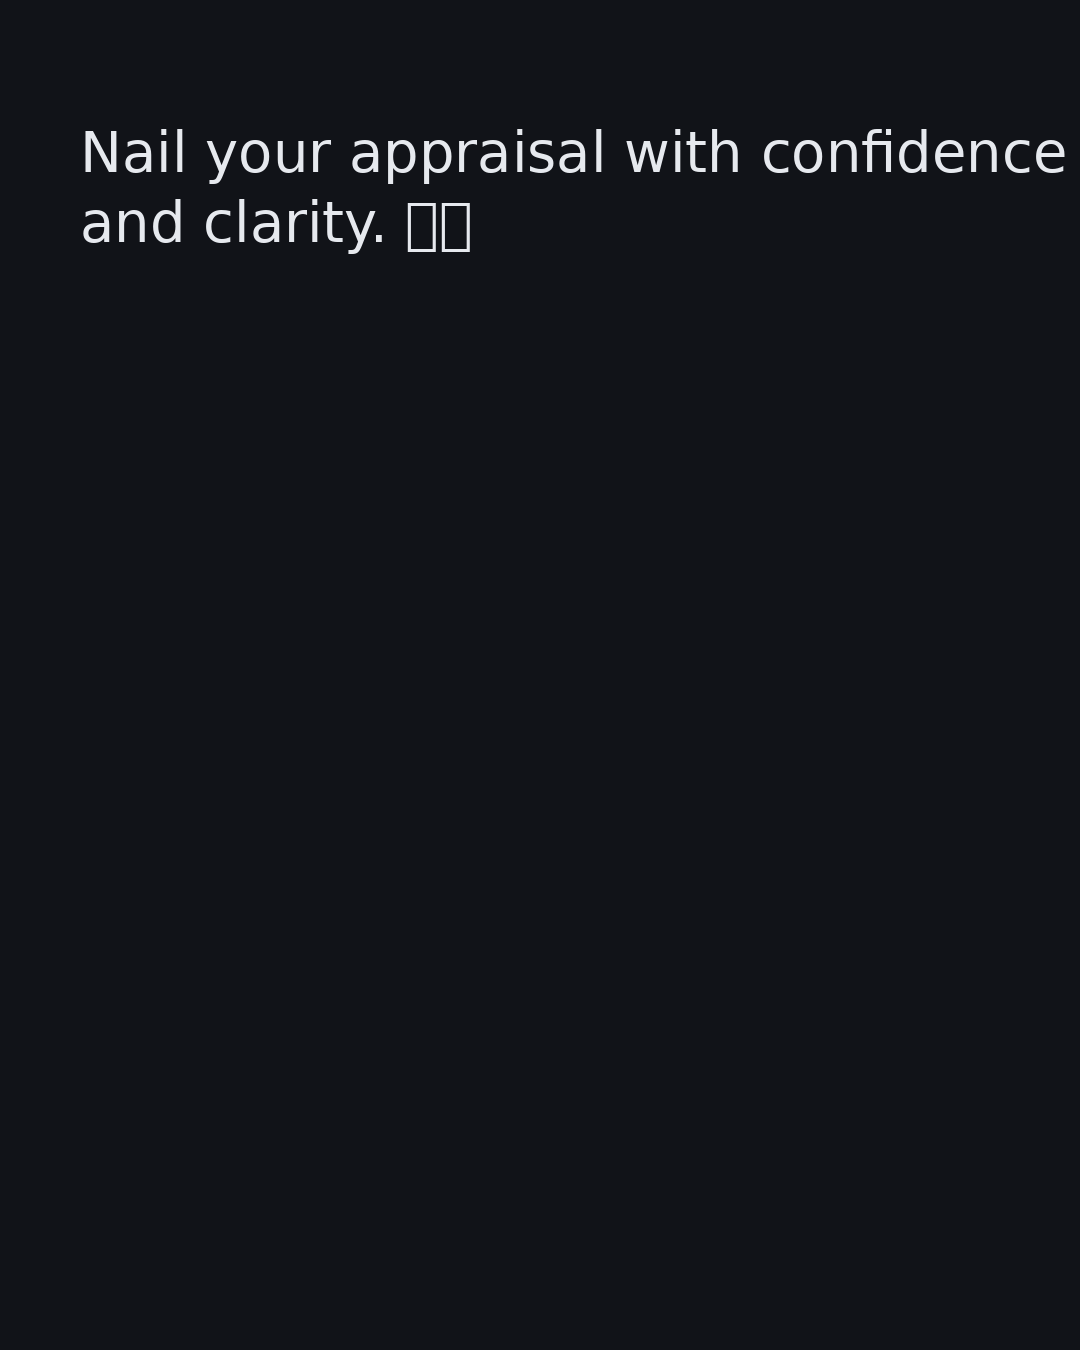
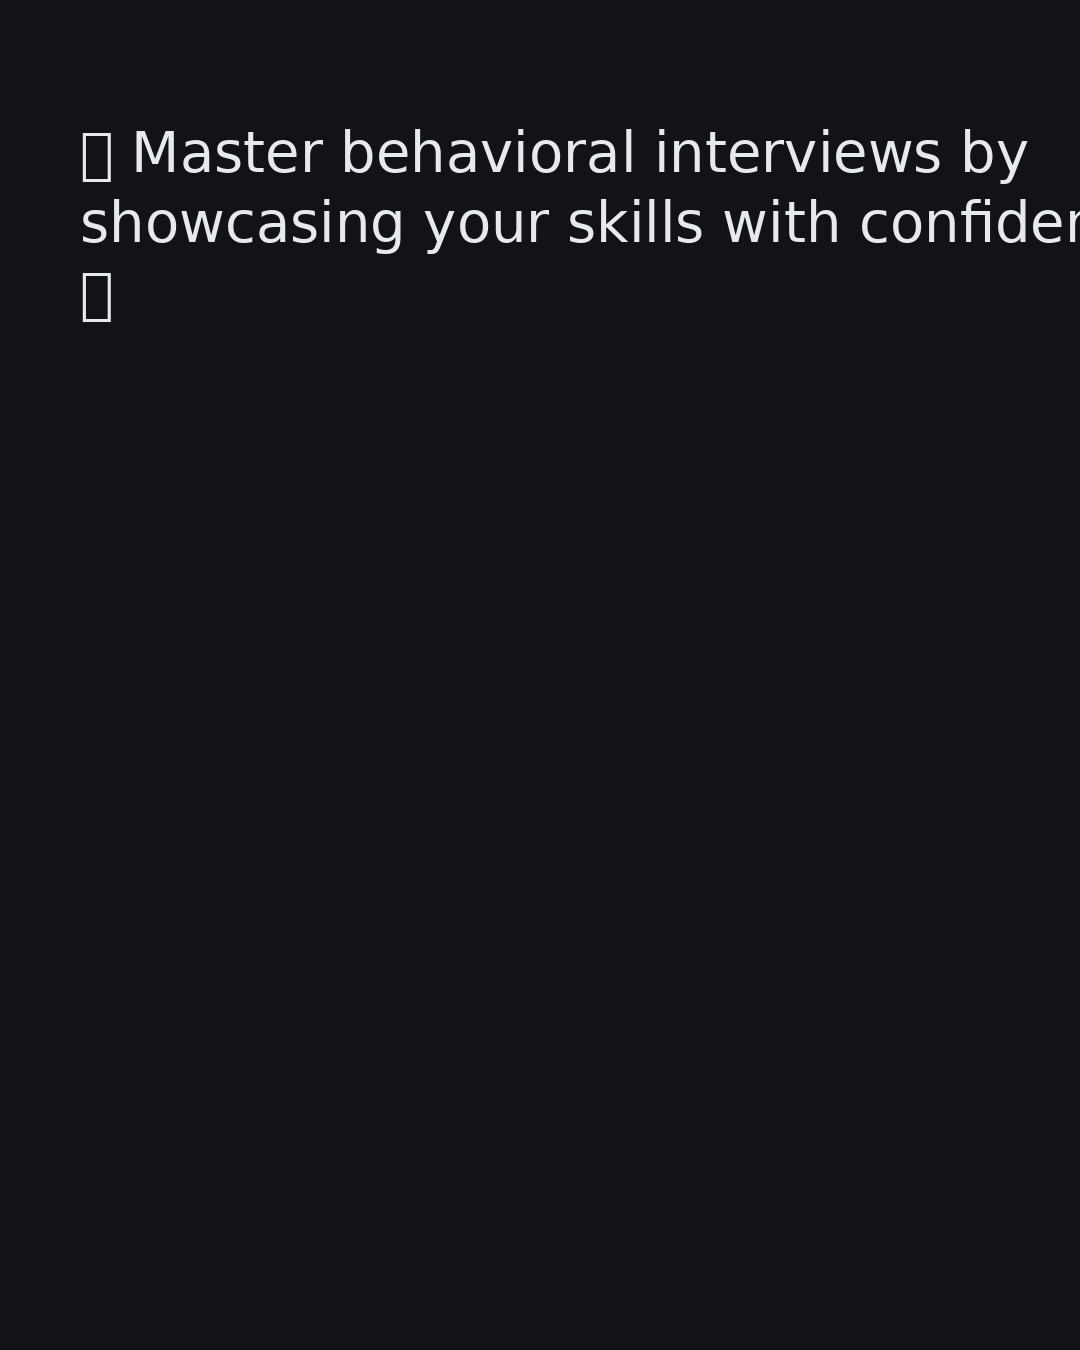
analytics: update reports, bandit, cron suggestion [skip ci]

Changed region(s): [[0.0611, 0.0933, 1.0, 0.1867], [0.0611, 0.2178, 0.0917, 0.2489]]

diff --git a/analytics/latest_report.md b/analytics/latest_report.md
@@ -1,9 +1,11 @@
 # Career Forge — Analytics Report
 
-_Generated: 2025-12-28T14:41:32.656609-07:00_
+_Generated: 2025-12-29T08:33:15.722668-07:00_
 
 ## Top 5 Posts (by engagement score)
 
+- **📌 Master behavioral interviews by showcasing your skills with confidence. 🚀**  
+  score=0.0 | likes=0 | replies=0 | reposts=0 | clicks=0 | saves=0 | time=2025-12-29T06:40:33-07:00 | style=unspecified | cta=question
 - **Nail your appraisal with confidence and clarity. 🎯💡**  
   score=0.0 | likes=0 | replies=0 | reposts=0 | clicks=0 | saves=0 | time=2025-12-28T06:32:34-07:00 | style=unspecified | cta=question
 - **🔍 70% of jobs are filled through referrals—networking can boost your chances! 🤝**  
@@ -12,8 +14,6 @@ _Generated: 2025-12-28T14:41:32.656609-07:00_
   score=0.0 | likes=0 | replies=0 | reposts=0 | clicks=0 | saves=0 | time=2025-12-26T06:35:56-07:00 | style=unspecified | cta=question
 - **💬 42% of hiring managers prefer STAR+L stories—boost your leadership narrative! 🚀**  
   score=0.0 | likes=0 | replies=0 | reposts=0 | clicks=0 | saves=0 | time=2025-12-24T06:35:30-07:00 | style=unspecified | cta=question
-- **📈 Allocate 15 minutes weekly for a career review to boost clarity and focus. 🔍**  
-  score=0.0 | likes=0 | replies=0 | reposts=0 | clicks=0 | saves=0 | time=2025-12-23T06:38:59-07:00 | style=unspecified | cta=question
 
 ## Performance by Style
 
@@ -27,23 +27,23 @@ _Generated: 2025-12-28T14:41:32.656609-07:00_
 - swipe_headlines: avg_score=0.0 (n=1)
 - template_drop: avg_score=0.0 (n=1)
 - unknown: avg_score=0.0 (n=19)
-- unspecified: avg_score=0.0 (n=93)
+- unspecified: avg_score=0.0 (n=94)
 
 ## Performance by CTA Type
 
-- question: avg_score=0.0 (n=117)
+- question: avg_score=0.0 (n=118)
 - tip: avg_score=0.0 (n=2)
 - unknown: avg_score=0.0 (n=19)
 
 ## Emoji Count in Title
 
 - 0: avg_score=0.0 (n=9)
-- 2: avg_score=0.0 (n=103)
+- 2: avg_score=0.0 (n=104)
 - 3+: avg_score=0.0 (n=26)
 
 ## Title Length
 
-- <= 120: avg_score=0.0 (n=132)
+- <= 120: avg_score=0.0 (n=133)
 - <= 160: avg_score=0.0 (n=4)
 - <= 200: avg_score=0.0 (n=1)
 - <= 240: avg_score=0.0 (n=1)
@@ -51,21 +51,21 @@ _Generated: 2025-12-28T14:41:32.656609-07:00_
 ## Numbers / % / $ Present
 
 - no: avg_score=0.0 (n=61)
-- yes: avg_score=0.0 (n=77)
+- yes: avg_score=0.0 (n=78)
 
 ## Question Mark Present
 
-- yes: avg_score=0.0 (n=138)
+- yes: avg_score=0.0 (n=139)
 
 ## Bullets Present in Description
 
 - 0: avg_score=0.0 (n=6)
-- 1+: avg_score=0.0 (n=132)
+- 1+: avg_score=0.0 (n=133)
 
 ## Local Post Time Bucket
 
 - early-afternoon: avg_score=0.0 (n=33)
-- early-morning: avg_score=0.0 (n=81)
+- early-morning: avg_score=0.0 (n=82)
 - evening: avg_score=0.0 (n=18)
 - late-afternoon: avg_score=0.0 (n=4)
 - morning: avg_score=0.0 (n=2)

diff --git a/analytics/for_chatgpt.md b/analytics/for_chatgpt.md
@@ -5,20 +5,20 @@ We generate self-contained, emoji-forward posts twice daily. Below are feature a
 ## Feature Summary (averages)
 
 - bullets :: 0 => avg_score=0.0 (n=6)
-- bullets :: 1+ => avg_score=0.0 (n=132)
-- cta :: question => avg_score=0.0 (n=117)
+- bullets :: 1+ => avg_score=0.0 (n=133)
+- cta :: question => avg_score=0.0 (n=118)
 - cta :: tip => avg_score=0.0 (n=2)
 - cta :: unknown => avg_score=0.0 (n=19)
 - emoji :: 0 => avg_score=0.0 (n=9)
-- emoji :: 2 => avg_score=0.0 (n=103)
+- emoji :: 2 => avg_score=0.0 (n=104)
 - emoji :: 3+ => avg_score=0.0 (n=26)
-- len :: <= 120 => avg_score=0.0 (n=132)
+- len :: <= 120 => avg_score=0.0 (n=133)
 - len :: <= 160 => avg_score=0.0 (n=4)
 - len :: <= 200 => avg_score=0.0 (n=1)
 - len :: <= 240 => avg_score=0.0 (n=1)
 - number :: no => avg_score=0.0 (n=61)
-- number :: yes => avg_score=0.0 (n=77)
-- question :: yes => avg_score=0.0 (n=138)
+- number :: yes => avg_score=0.0 (n=78)
+- question :: yes => avg_score=0.0 (n=139)
 - style :: challenge => avg_score=0.0 (n=4)
 - style :: checklist => avg_score=0.0 (n=4)
 - style :: coach_tip => avg_score=0.0 (n=4)
@@ -29,9 +29,9 @@ We generate self-contained, emoji-forward posts twice daily. Below are feature a
 - style :: swipe_headlines => avg_score=0.0 (n=1)
 - style :: template_drop => avg_score=0.0 (n=1)
 - style :: unknown => avg_score=0.0 (n=19)
-- style :: unspecified => avg_score=0.0 (n=93)
+- style :: unspecified => avg_score=0.0 (n=94)
 - time :: early-afternoon => avg_score=0.0 (n=33)
-- time :: early-morning => avg_score=0.0 (n=81)
+- time :: early-morning => avg_score=0.0 (n=82)
 - time :: evening => avg_score=0.0 (n=18)
 - time :: late-afternoon => avg_score=0.0 (n=4)
 - time :: morning => avg_score=0.0 (n=2)
@@ -42,8 +42,8 @@ Using the summary and top posts, propose 5 editing rules to maximize engagement,
 
 ## Top Posts (samples)
 
+- 📌 Master behavioral interviews by showcasing your skills with confidence. 🚀  | score=0.0 | emojis=2 | len=75 | style=unspecified | cta=question
 - Nail your appraisal with confidence and clarity. 🎯💡  | score=0.0 | emojis=2 | len=51 | style=unspecified | cta=question
 - 🔍 70% of jobs are filled through referrals—networking can boost your chances! 🤝  | score=0.0 | emojis=2 | len=79 | style=unspecified | cta=question
 - ✍ Boost your cold outreach success with this 4-step checklist! 📧✨  | score=0.0 | emojis=4 | len=66 | style=unspecified | cta=question
 - 💬 42% of hiring managers prefer STAR+L stories—boost your leadership narrative! 🚀  | score=0.0 | emojis=2 | len=81 | style=unspecified | cta=question
-- 📈 Allocate 15 minutes weekly for a career review to boost clarity and focus. 🔍  | score=0.0 | emojis=2 | len=78 | style=unspecified | cta=question

diff --git a/analytics/cron_suggestion.md b/analytics/cron_suggestion.md
@@ -3,7 +3,7 @@ Based on average engagement by **local time bucket** (America/Phoenix).
 
 ## Top buckets
 - early-afternoon: avg_score=0.00 (n=33)
-- early-morning: avg_score=0.00 (n=81)
+- early-morning: avg_score=0.00 (n=82)
 - evening: avg_score=0.00 (n=18)
 - late-afternoon: avg_score=0.00 (n=4)
 - morning: avg_score=0.00 (n=2)
